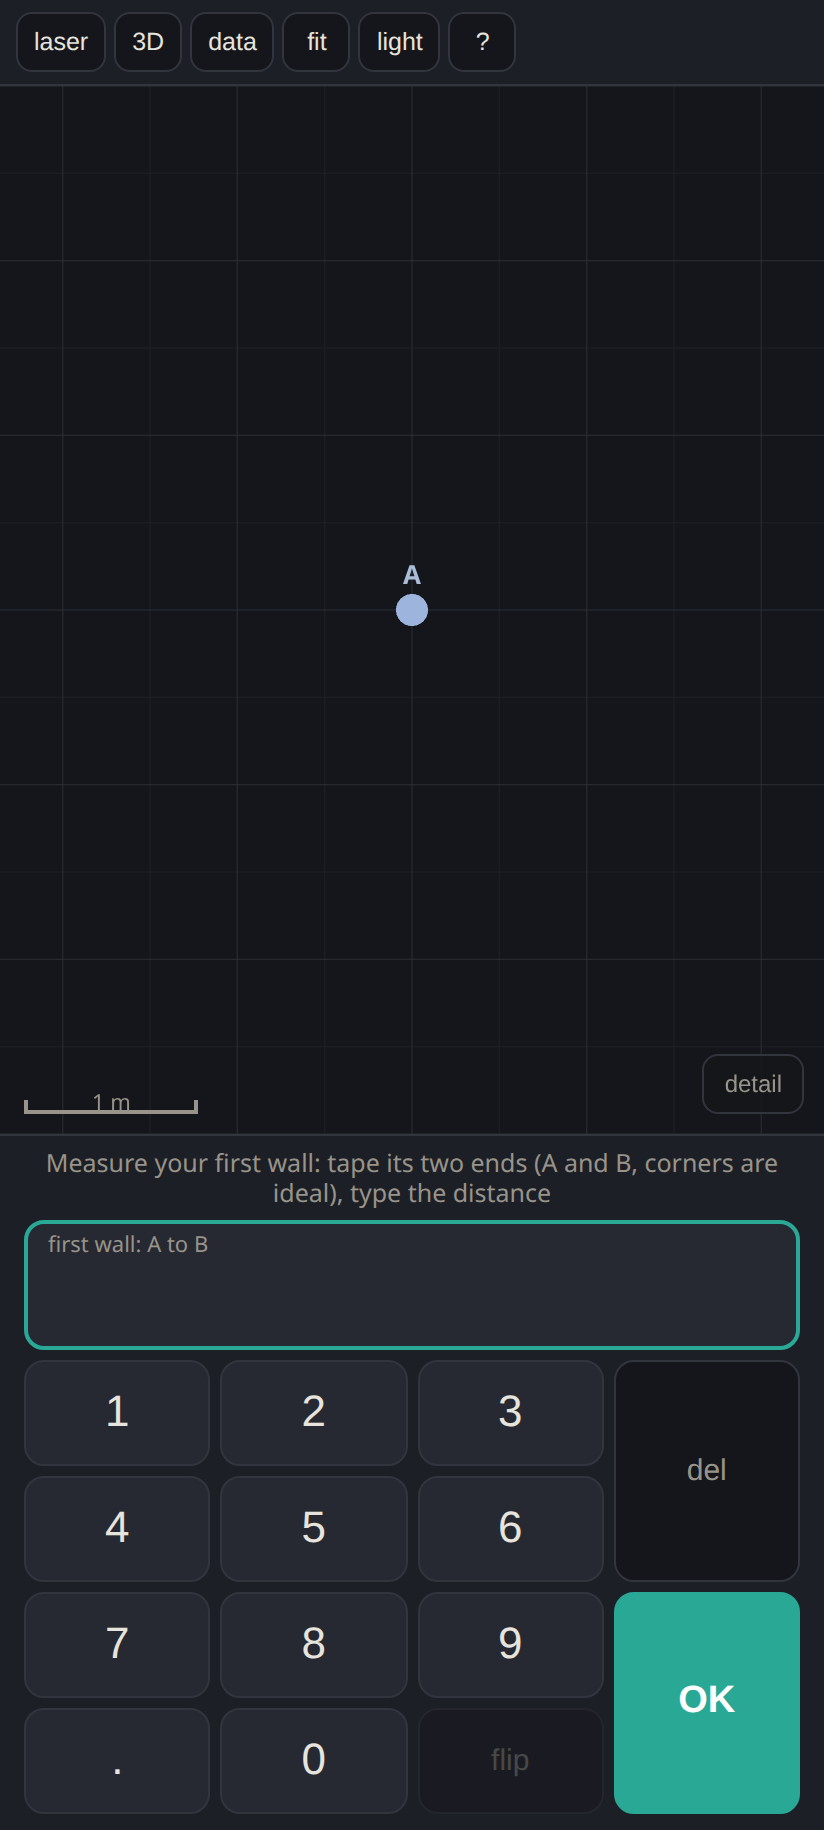
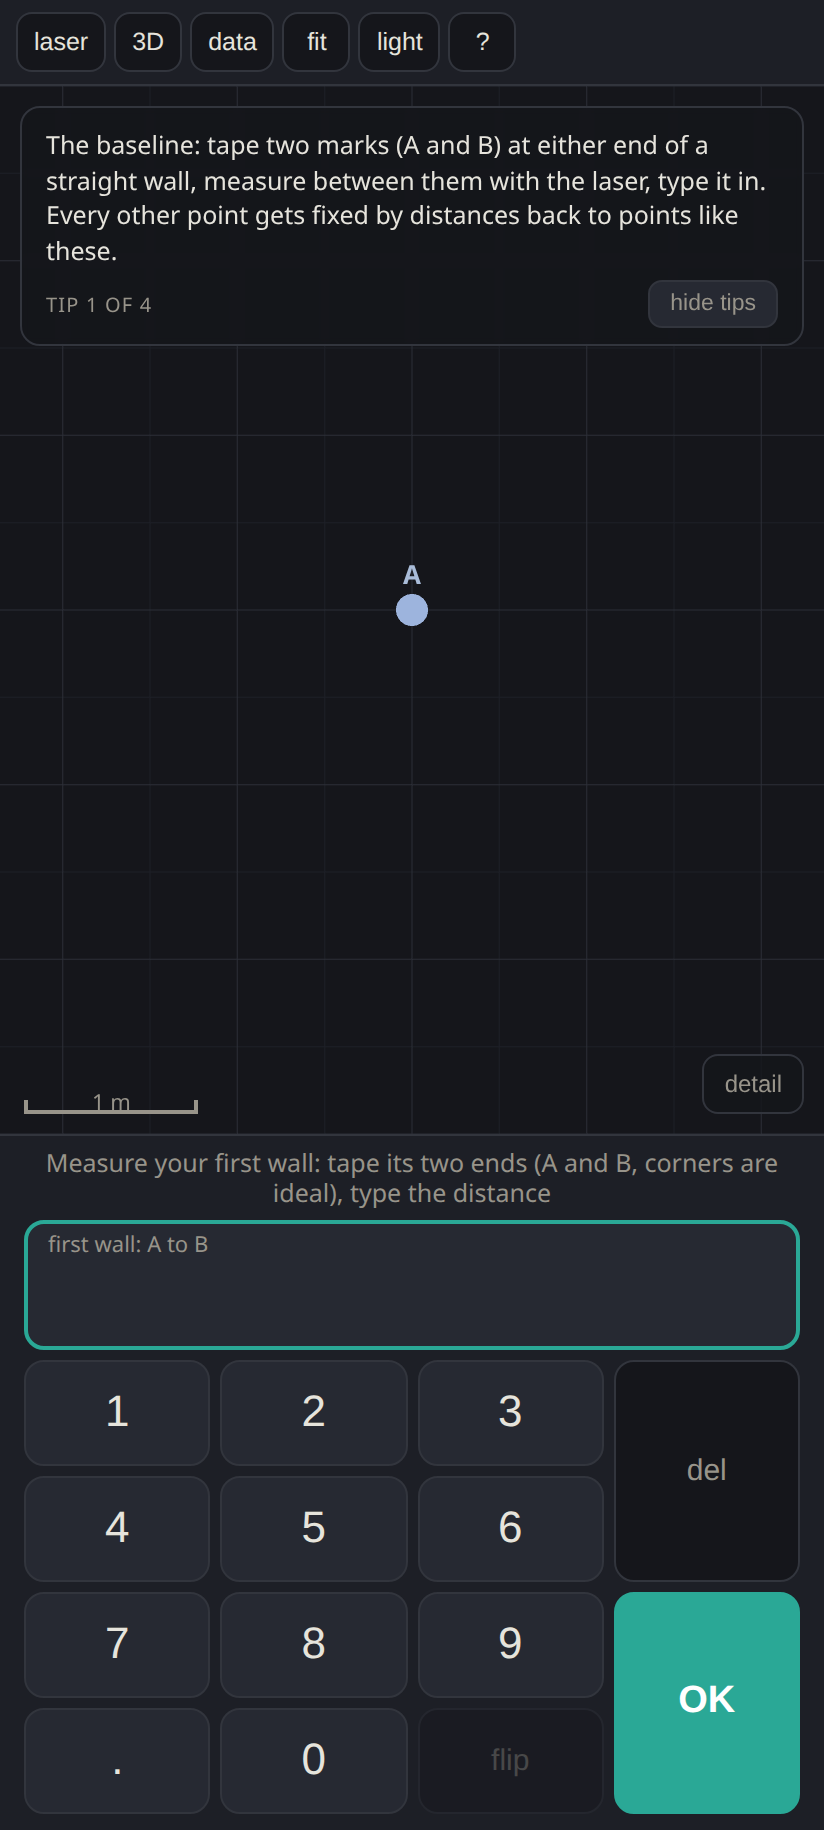
survey: reference-first by default, guided first-survey tips
Field experience: outlines built from a reference network beat chaining
walls while measuring - spots the anchors cannot see need references
taken FIRST, then corners get fixed against them. So walling now
defaults to off: anchors place no wall run, new points are
reference-only, and rooms are built in walls mode by tapping corners.
The walling toggle still enables chain-as-you-measure (persisted);
turning it on before any outline exists seeds the run at A-B so the
chain continues as before. The anchor preview draws a baseline rather
than promising a wall it will not create.

A four-tip coach walks a fresh survey through baseline, references,
outline and check measurements, advancing off the actual survey state.
One tap hides it for good (recording a check also completes it);
'clear everything' or the help card brings it back. The card passes
pointer events through - only its hide button is clickable.

Also hardened LaserLink._write against a characteristic vanishing
mid-sequence (disconnect during the arm/trigger delay).

Changed region(s): [[0.0607, 0.0623, 0.9102, 0.1869], [0.8192, 0.1557, 0.9102, 0.1869]]

diff --git a/js/main.js b/js/main.js
@@ -32,7 +32,15 @@ const ui = {
   flow: null,        // placement / edit flow, see startFlow()
   flowSide: 1,       // candidate side while a flow preview is active
   drag: null,        // transient item drag (not yet committed)
+  // Reference-first by default: new points are reference-only until the
+  // user turns walling on (or builds walls by hand in walls mode).
+  wallPause: true,
+  coachDone: false,
 };
+try {
+  ui.wallPause = localStorage.getItem('house-measurer.walling') !== 'on';
+  ui.coachDone = localStorage.getItem('house-measurer.coach') === 'done';
+} catch {}
 
 const plan = new PlanView($('plan'), $('overlay'), $('scalebar'), {
   onTap: handleTap,
@@ -304,13 +312,15 @@ function toggleRef(id) {
 function commitAnchor() {
   const d = parseDistance(ui.fields[0]);
   if (d == null) return say('Type the distance between anchor A and anchor B', 'warn');
-  const { a, b } = store.setAnchors(d);
+  const { a, b } = store.setAnchors(d, { wall: !ui.wallPause });
   ui.refs = [a, b];
   ui.fields = ['', ''];
   ui.active = 0;
   plan.fitAll([...store.solved.pos.values()]);
   toast('A and B placed', 'good');
-  say('A-B fixed and walling started. Measure the corners in order round the room.');
+  say(ui.wallPause
+    ? 'A-B fixed. Fix reference points around the space next - then build the outline in walls mode (or turn walling on to chain as you measure).'
+    : 'A-B fixed and walling started. Measure the corners in order round the room.');
 }
 
 // Explain WHY two circles cannot meet, with the numbers and a way out.
@@ -492,6 +502,7 @@ function commitCheck() {
     return say(`${n1} to ${n2} currently solves to ${fmtDist(predicted)}, but you typed ${fmtDist(v)} - ${(diff * 100).toFixed(0)} cm apart. Typo or cm/m mix-up? Press record again to keep it anyway.`, 'err');
   }
   ui.checkArm = null;
+  if (!ui.coachDone) coachFinish();
   const id = store.addMeasurement(ui.refs[0], ui.refs[1], v);
   const r = (store.solved.mres.get(id) || 0) * 100;
   ui.fields = ['', ''];
@@ -1207,7 +1218,7 @@ function renderPanel() {
     $('unwall-btn').style.display = ui.mode === 'measure' && !ui.flow && inWall ? '' : 'none';
     const autoWalling = !anchorMode() && !store.hasClosedRoomOn(activeFloor());
     $('pause-btn').style.display = ui.mode === 'measure' && !ui.flow && autoWalling ? '' : 'none';
-    $('pause-btn').textContent = ui.wallPause ? 'walling: paused' : 'walling: on';
+    $('pause-btn').textContent = ui.wallPause ? 'walling: off' : 'walling: on';
     $('pause-btn').classList.toggle('on', !ui.wallPause);
     $('auto-btn').style.display = laser.connected && ui.mode === 'measure' && !ui.flow ? '' : 'none';
     $('auto-btn').textContent = `auto: ${ui.autoLaser === true ? 'on' : 'off'}`;
@@ -1318,14 +1329,17 @@ function renderPlan() {
     content.points.push({ x: 0, y: 0, style: 'anchor' });
     content.labels.push({ key: 'pA', x: 0, y: 0, text: 'A', cls: 'name', dy: -18 });
     if (d != null) {
-      // The first measurement IS the first wall - preview it as one.
+      // With walling on the first measurement IS the first wall; with the
+      // reference-first default it is the baseline the survey hangs off.
       content.ghosts.push({ x: d, y: 0, primary: true });
-      content.segments.push({
-        x1: 0, y1: 0, x2: d, y2: 0, style: 'wall',
-        t: store.state.wallThickness ?? 0.09,
-      });
+      content.segments.push(ui.wallPause
+        ? { x1: 0, y1: 0, x2: d, y2: 0, style: 'ab' }
+        : { x1: 0, y1: 0, x2: d, y2: 0, style: 'wall', t: store.state.wallThickness ?? 0.09 });
       content.labels.push({ key: 'pB', x: d, y: 0, text: 'B', cls: 'name', dy: -18 });
-      content.labels.push({ key: 'dAB', x: d / 2, y: 0, text: `first wall ${fmtDist(d)}`, cls: 'ray', dy: 16 });
+      content.labels.push({
+        key: 'dAB', x: d / 2, y: 0,
+        text: `${ui.wallPause ? 'A to B' : 'first wall'} ${fmtDist(d)}`, cls: 'ray', dy: 16,
+      });
       plan.fitAll([{ x: 0, y: 0 }, { x: d, y: 0 }]);
     }
     plan.update(content);
@@ -1737,9 +1751,47 @@ function surveyViz() {
   return viz;
 }
 
+// First-survey coach: four stage-driven tips that follow the actual
+// survey state (baseline -> references -> outline -> checks). One tap
+// hides them for good; "clear everything" or the help card brings them
+// back. The card ignores pointer events except its hide button, so it
+// never blocks canvas taps.
+const COACH_TIPS = [
+  'The baseline: tape two marks (A and B) at either end of a straight wall, measure between them with the laser, type it in. Every other point gets fixed by distances back to points like these.',
+  'Reference points first: new points are reference-only while walling is off. Fix a few spread around the space - especially ones that can see what A and B cannot (through doorways, past corners). Rays crossing near 90 degrees make the strongest fixes.',
+  'Build the outline: in walls mode tap the corner points in order, and tap the first corner again to close the room (the ceiling height is asked once closed). Or turn walling: on and new points chain into the outline as you measure them.',
+  'Tighten it: select two points, type a measured distance, press record. Disagreement shows up as residuals, and the detail button reveals wall angles and weak fixes. That is the whole loop - references, corners, checks.',
+];
+
+function coachStage() {
+  if (ui.coachDone || ui.flow) return null;
+  if (anchorMode()) return 0;
+  if (store.hasClosedRoomOn(activeFloor())) return 3;
+  const refCount = store.state.points.filter((p) => onFloor(p)).length - 2;
+  if (ui.wallPause && refCount < 2) return 1;
+  return 2;
+}
+
+function renderCoach() {
+  const el = $('coach');
+  if (!el) return;
+  const stage = coachStage();
+  el.hidden = stage == null;
+  if (stage == null) return;
+  $('coach-text').textContent = COACH_TIPS[stage];
+  $('coach-step').textContent = `tip ${stage + 1} of ${COACH_TIPS.length}`;
+}
+
+function coachFinish() {
+  ui.coachDone = true;
+  try { localStorage.setItem('house-measurer.coach', 'done'); } catch {}
+  renderCoach();
+}
+
 function render() {
   validateUi();
   renderPanel();
+  renderCoach();
   if (ui.view === '3d') {
     if (view3d) view3d.build(store.state, store.solved, visibleLayers(), surveyViz());
   } else {
@@ -2012,6 +2064,13 @@ $('view3d-btn').addEventListener('click', toggle3D);
 $('log-btn').addEventListener('click', () => { $('log-sheet').hidden = false; renderLog(); });
 $('log-close').addEventListener('click', () => { $('log-sheet').hidden = true; });
 $('log-sheet').addEventListener('click', (e) => { if (e.target === $('log-sheet')) $('log-sheet').hidden = true; });
+$('coach-hide').addEventListener('click', coachFinish);
+$('coach-show').addEventListener('click', () => {
+  ui.coachDone = false;
+  try { localStorage.removeItem('house-measurer.coach'); } catch {}
+  $('help-overlay').hidden = true;
+  render();
+});
 $('help').addEventListener('click', () => { $('help-overlay').hidden = false; });
 $('help-close').addEventListener('click', () => { $('help-overlay').hidden = true; });
 $('help-overlay').addEventListener('click', (e) => {
@@ -2054,9 +2113,16 @@ $('unwall-btn').addEventListener('click', () => {
 });
 $('pause-btn').addEventListener('click', () => {
   ui.wallPause = !ui.wallPause;
+  try { localStorage.setItem('house-measurer.walling', ui.wallPause ? 'off' : 'on'); } catch {}
+  if (!ui.wallPause && !store.hasClosedRoomOn(activeFloor()) && !store.openWall()) {
+    // Walling switched on with no outline yet: start the run at the
+    // anchor pair so the chain continues A-B-... as expected.
+    const anchors = store.state.points.filter((p) => onFloor(p) && !p.fix);
+    if (anchors.length === 2) store.seedWallRun(anchors.map((p) => p.id));
+  }
   say(ui.wallPause
-    ? 'Walling paused: new points are reference-only until you resume'
-    : 'Walling resumed: new points chain into the outline again');
+    ? 'Walling off: new points are reference-only'
+    : 'Walling on: new points chain into the wall outline until the room closes');
 });
 $('shoot-btn').addEventListener('click', () => laser.remoteTrigger());
 $('auto-btn').addEventListener('click', () => {
@@ -2146,6 +2212,12 @@ $('clear-all').addEventListener('click', (e) => {
     store.clearAll();
     ui.refs = []; ui.fields = ['', '']; ui.lastId = null; ui.active = 0;
     ui.flow = null; ui.selItem = null; ui.activeWallId = null; ui.mode = 'measure';
+    ui.coachDone = false;
+    ui.wallPause = true;
+    try {
+      localStorage.removeItem('house-measurer.coach');
+      localStorage.removeItem('house-measurer.walling');
+    } catch {}
     delete b.dataset.armed;
     b.textContent = 'clear everything';
     $('help-overlay').hidden = true;

diff --git a/index.html b/index.html
@@ -29,6 +29,13 @@
       <div id="overlay"></div>
       <div id="scalebar"></div>
       <button id="show-work" title="show wall angles and the circles behind each fixed point">detail</button>
+      <div id="coach" hidden>
+        <div id="coach-text"></div>
+        <div id="coach-row">
+          <span id="coach-step"></span>
+          <button id="coach-hide">hide tips</button>
+        </div>
+      </div>
     </div>
     <div id="view3d-wrap" hidden>
       <canvas id="plan3d"></canvas>
@@ -164,8 +171,8 @@
       <li>Mark two anchor points A and B (ideally corners) with tape. Measure A to B and type it in.</li>
       <li>For every new point: tap 2 already-fixed points, type the measured distance to each, press OK. Two positions match - the marked one is placed; tap the other candidate or press flip if it is on the wrong side.</li>
       <li>For a stronger fix, tap up to 4 references (spread apart as seen from where you stand - rays crossing at 60-120 degrees are ideal) and enter the distances one at a time. Extra distances average the laser noise down, expose a bad reading as a residual, and pick the correct side automatically.</li>
-      <li>Until your first room is closed, each new point chains into the wall outline automatically - measure the corners in order round the room, then press <b>close room</b> and give the ceiling height. Fix a wrong link in walls mode with step back.</li>
-      <li>When A and B fall out of sight, place extra reference points first: press <b>walling: on</b> to pause the auto-chain, fix the reference points, resume, and continue the outline from the new references. If a reference already slipped into the outline, select it and press <b>unwall</b> - the loop reroutes past it and the point stays usable.</li>
+      <li>New points are <b>reference-only</b> by default (walling: off). Fix reference points around the space first - especially ones that can see what A and B cannot (through doorways, past corners) - then build each room in <b>walls</b> mode: tap the corners in order, tap the first again to close, and give the ceiling height.</li>
+      <li>Prefer chaining instead? Toggle <b>walling: on</b> and each new point links into the wall outline as you measure, until the room closes (turning it on before any outline exists starts the run at A-B). Fix a wrong link in walls mode with step back; if a reference point slipped into the outline, select it and press <b>unwall</b> - the loop reroutes past it and the point stays usable.</li>
       <li>Extra check measurements (e.g. a room diagonal): select the 2 points, type the distance, press record. Every point is adjusted to best fit all measurements; disagreement shows as residuals, and a reading far off the current solution is challenged before it is accepted. Edit or delete any measurement in the data sheet. The <b>detail</b> button overlays the interior angle at every wall corner and, for a selected point, the circles it was fixed from; while typing a new point the proposed wall's corner angle previews live.</li>
     </ol>
     <h2>walls, items, 3D</h2>
@@ -179,6 +186,7 @@
     <p><b>Auto mode</b> (the <b>auto</b> toggle next to the reference slots, off by default): each laser reading advances the survey by itself. The number of selected references is the contract: with 2 selected, every pair of readings places a point; with 3 or 4 selected, every point takes that many readings and commits on the last one - then the next point begins automatically against the same references. The status line always names which reference to shoot next, and the phone buzzes: short tick = reading logged, triple = point placed, long = reading refused. A mis-fired shot is retracted with <b>del</b> (steps back one reading); Escape restarts the current fix. Every guard still applies: impossible pairs are refused with an explanation, flip swaps a wrong side, and undo unwinds anything.</p>
     <p>The <b>shoot</b> button (Bosch meters) triggers a measurement remotely - the laser arms, then fires, with no button press to shake the aim. Remote readings measure from the device's FRONT edge, so a corrective offset (the body length, default 10 cm, adjustable in the laser panel) is added to match your usual back-edge readings. The device screen stays at 0 for remote shots - compare values in the app field instead. If the meter declines, the status says so. The <b>calibrate</b> button in the laser panel derives the offset from the meter itself: prop it still, press its measure button once, and the app fires a remote shot and reads the body length off the difference.</p>
     <p class="fine">Everything is saved on this device automatically. Export JSON from the log sheet for backup or to move devices.</p>
+    <button id="coach-show">show guided tips again</button>
     <button id="clear-all">clear everything</button>
   </div>
 </div>

diff --git a/style.css b/style.css
@@ -621,7 +621,7 @@ header button.on, #modebar button.on {
   font-size: 16px;
 }
 #clear-all {
-  margin-top: 14px;
+  margin-top: 10px;
   width: 100%;
   padding: 10px;
   border: 1px solid var(--red);
@@ -728,3 +728,54 @@ header button.on, #modebar button.on {
   color: var(--muted);
 }
 .log-cols .log-actions { width: 90px; }
+
+/* ---- first-survey coach ---- */
+#coach {
+  position: absolute;
+  top: 10px;
+  left: 10px;
+  right: 10px;
+  max-width: 400px;
+  margin: 0 auto;
+  background: var(--label-bg);
+  border: 1px solid var(--line);
+  border-radius: 10px;
+  padding: 10px 12px 8px;
+  font-size: 12.5px;
+  line-height: 1.4;
+  color: var(--ink);
+  pointer-events: none; /* taps pass through to the plan... */
+  backdrop-filter: blur(2px);
+}
+#coach[hidden] { display: none; }
+#coach-row {
+  display: flex;
+  align-items: center;
+  justify-content: space-between;
+  margin-top: 6px;
+}
+#coach-step {
+  font-size: 10px;
+  text-transform: uppercase;
+  letter-spacing: 0.06em;
+  color: var(--muted);
+}
+#coach-hide {
+  pointer-events: auto; /* ...except the one real control */
+  border: 1px solid var(--line);
+  background: var(--card);
+  color: var(--muted);
+  border-radius: 7px;
+  padding: 5px 10px;
+  font-size: 11.5px;
+}
+#coach-show {
+  margin-top: 14px;
+  width: 100%;
+  padding: 10px;
+  border: 1px solid var(--teal);
+  color: var(--teal);
+  background: none;
+  border-radius: 10px;
+  font-size: 14px;
+}

diff --git a/js/laser.js b/js/laser.js
@@ -329,13 +329,19 @@ export class LaserLink {
   }
 
   // The Bosch char is write-WITHOUT-response only - the default write
-  // mode fails on it.
+  // mode fails on it. Tolerates a vanished characteristic (disconnect
+  // mid-sequence) rather than throwing from a timer callback.
   _write(ch, bytes) {
+    if (!ch) return Promise.resolve();
     const buf = new Uint8Array(bytes);
-    const p = !ch.properties.write && ch.writeValueWithoutResponse
-      ? ch.writeValueWithoutResponse(buf)
-      : ch.writeValue(buf);
-    return p.catch(() => {});
+    try {
+      const p = !ch.properties.write && ch.writeValueWithoutResponse
+        ? ch.writeValueWithoutResponse(buf)
+        : ch.writeValue(buf);
+      return Promise.resolve(p).catch(() => {});
+    } catch {
+      return Promise.resolve();
+    }
   }
 
   get canTrigger() { return this.connected && !!this.boschChar; }

diff --git a/js/state.js b/js/state.js
@@ -238,6 +238,16 @@ export class Store {
     return { a, b };
   }
 
+  // Seed the auto-wall run with already-existing points, in order - used
+  // when walling gets switched on after the anchors were placed without
+  // a run (reference-first flow), so the outline still starts at A-B.
+  seedWallRun(ids) {
+    if (!ids.length) return;
+    this.commit((s) => {
+      for (const id of ids) this._autoWallAppend(s, id);
+    });
+  }
+
   // autoWall: chain the new point into the active floor's open wall run in
   // the same undo step. extras: additional [{p, d}] distances to more
   // references, committed atomically - the redundancy that lets the
